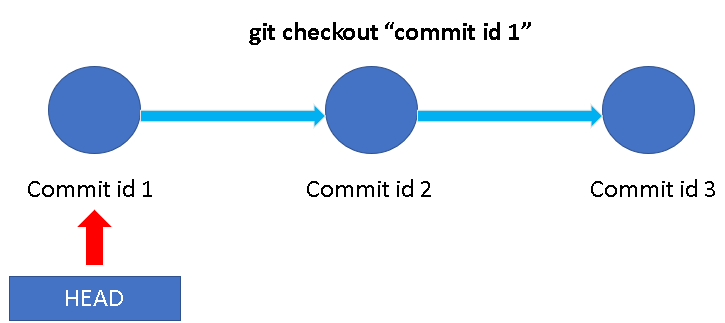
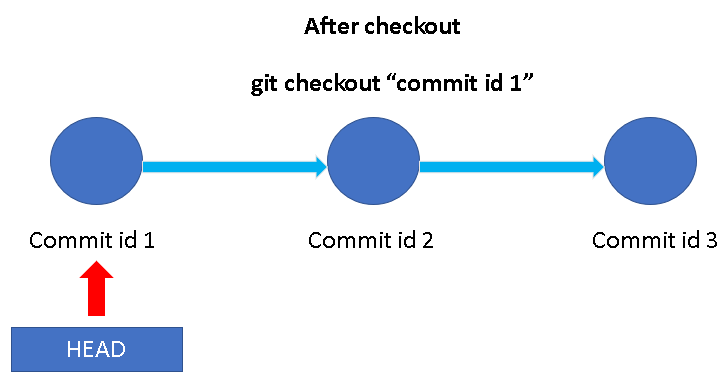
fix

Changed region(s): [[0.0, 0.1858, 1.0, 1.0], [0.3361, 0.031, 0.7333, 0.1548]]

diff --git a/Class material/2- Git commit.md b/Class material/2- Git commit.md
@@ -32,7 +32,7 @@ working directory that will be lost during the checkout operation.
 
 
 <p align="center">
-<img src="https://github.com/horaciosolis1991/Git-class-material/blob/main/res/after-checkout.png" width="544" height="242">
+<img src="https://github.com/horaciosolis1991/Git-class-material/blob/main/res/after-checkout.png" width="540" height="280">
 </p>
 
 
@@ -42,9 +42,33 @@ working directory that will be lost during the checkout operation.
 
 Reverting undoes a commit by creating a new commit. This is a safe way to undo changes, as it has no chance of re-writing the commit history.
 
+
+
+
+
+<p align="center">
+<img src="https://github.com/horaciosolis1991/Git-class-material/blob/main/res/before-revert.png" width="545" height="226">
+</p>
+
+
+<p align="center">
+<img src="https://github.com/horaciosolis1991/Git-class-material/blob/main/res/after-revert.png" width="751" height="276">
+</p>
+
+
+
 ## git reset
 
 On the commit-level, resetting is a way to move the tip of a branch to a different commit. This can be used to remove commits from the current branch.
+
+<p align="center">
+<img src="https://github.com/horaciosolis1991/Git-class-material/blob/main/res/before-revert.png" width="545" height="226">
+</p>
+
+<p align="center">
+<img src="https://github.com/horaciosolis1991/Git-class-material/blob/main/res/after-reset.png" width="194" height="234">
+</p>
+
 
 In addition to moving the current branch, you can also get git reset to alter the staged snapshot and/or the working directory by passing it one of the following flags:
 
